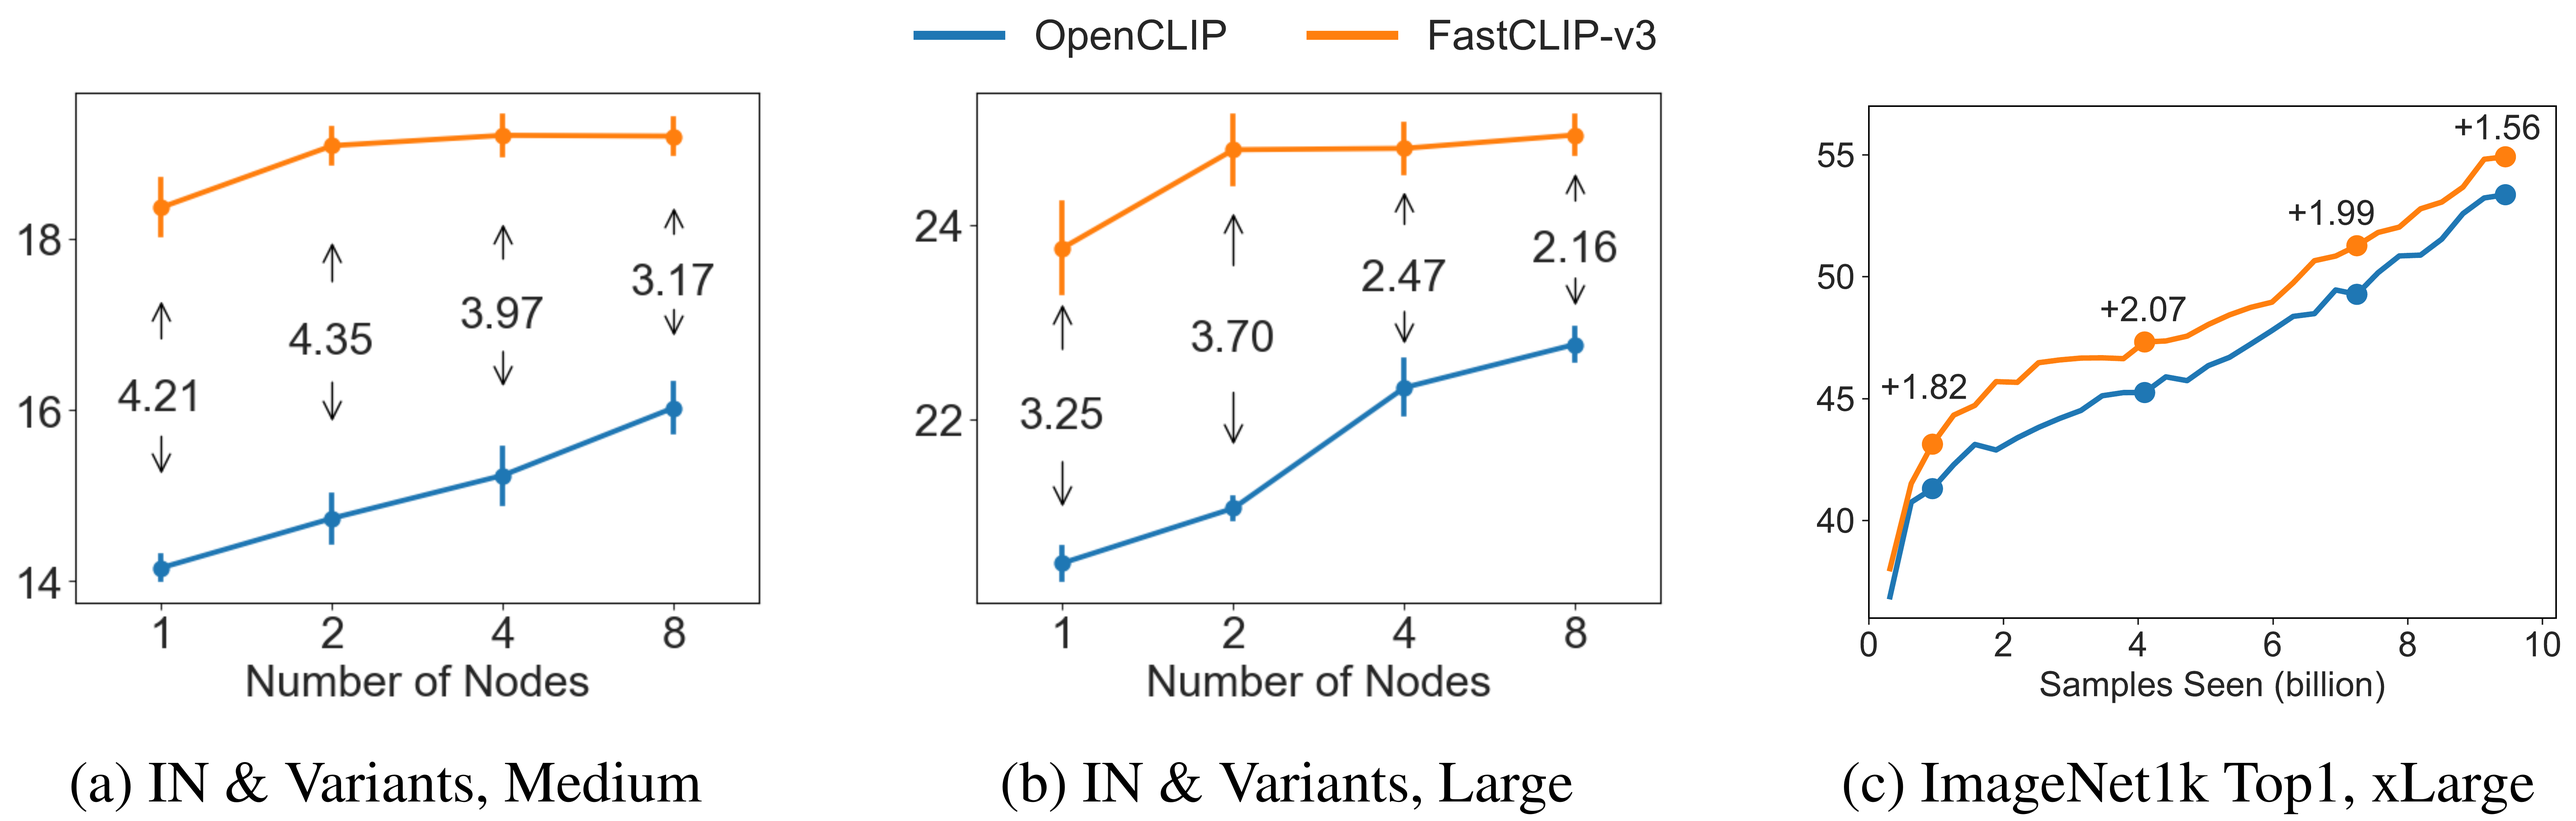
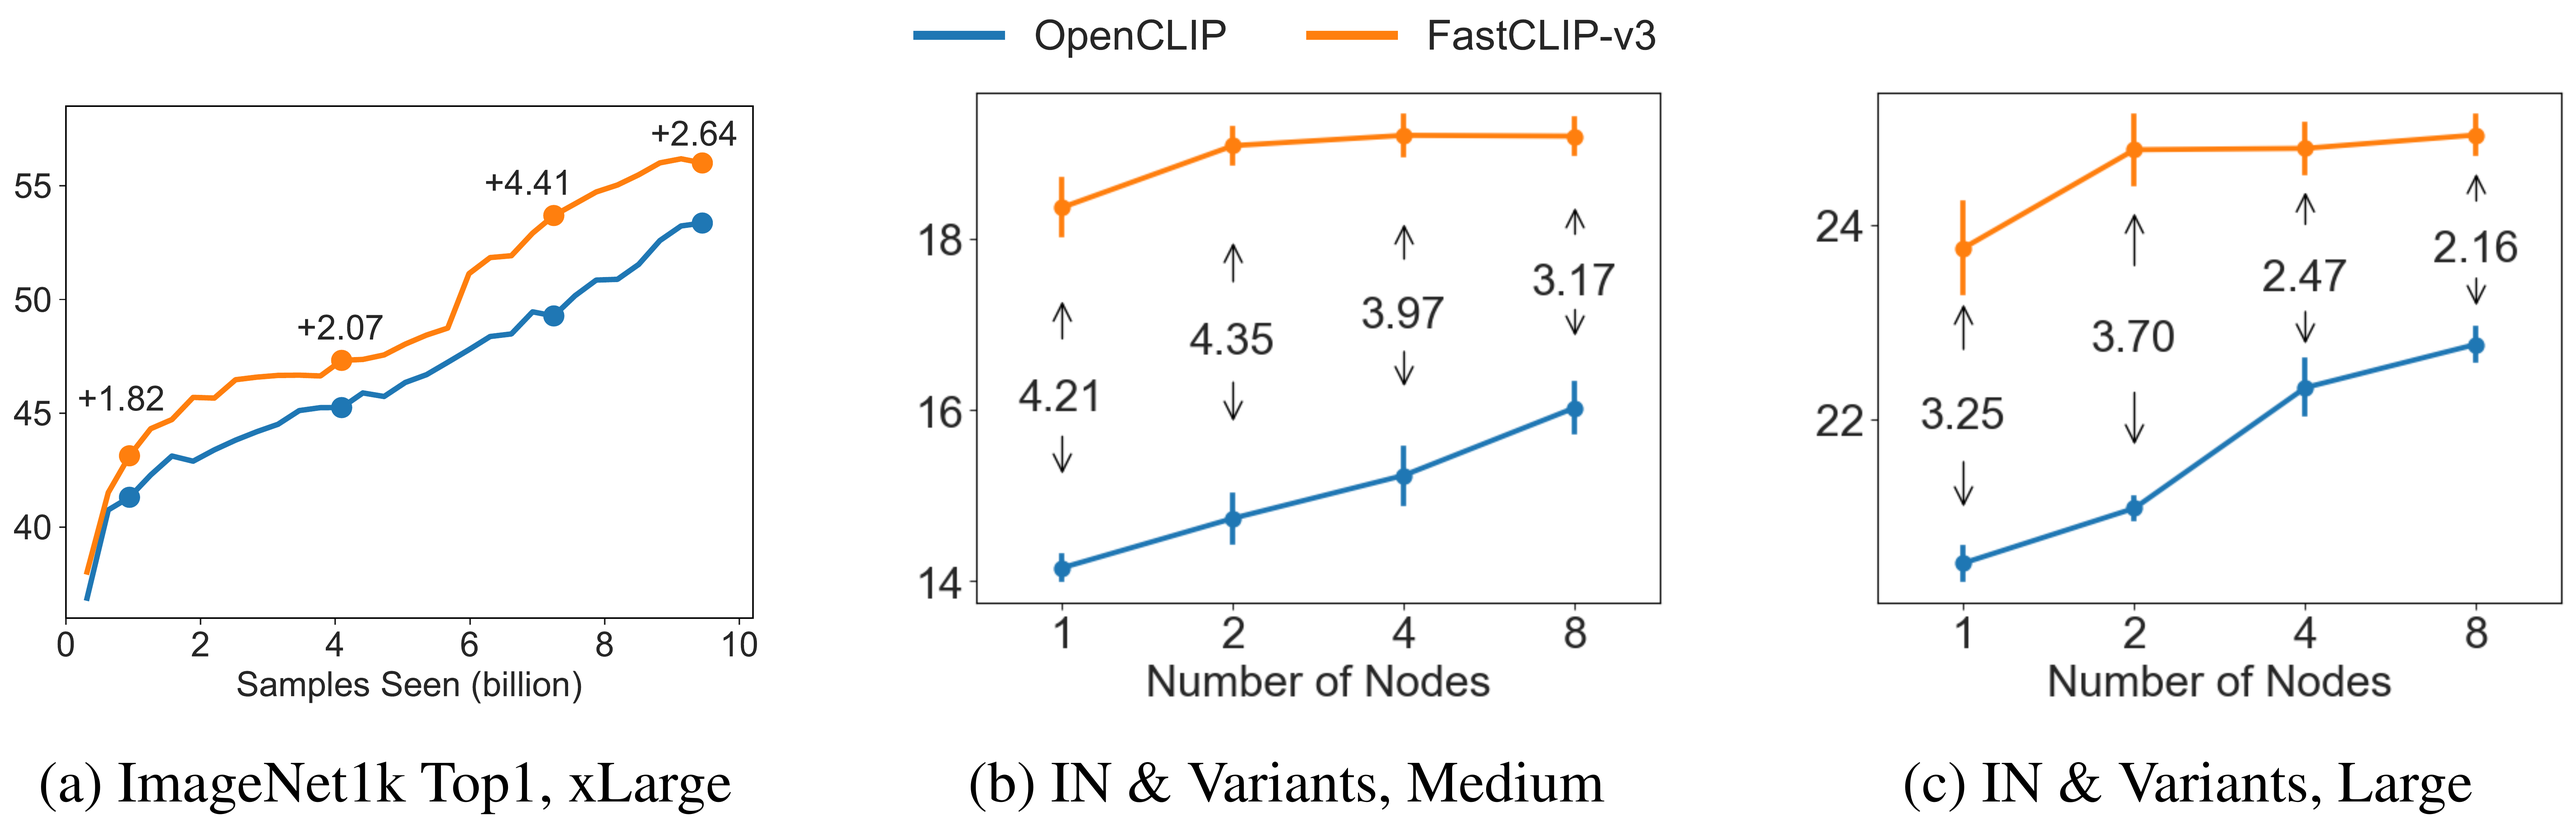
update experiment results

diff --git a/README.md b/README.md
@@ -58,17 +58,19 @@ Note that OpenCLIP [[3]](#references) uses the Mini-Batch Contrastive Loss (MBCL
 
 ### Experiment Results
 
-Next we present the results of FastCLIP vs. OpenCLIP, SogCLR and iSogCLR. For more results please refer to our paper. The following table shows the results of FastCLIP-v1 (FastCLIP-v2, resp.) vs. SogCLR (iSogCLR, resp.) in the medium-scale (**CC3M**, batch size 1024) and large-scale (**CC12M**, batch size 2048) settings.
+Next we present the results of FastCLIP vs. OpenCLIP, SogCLR and iSogCLR. For more results please refer to our paper.
 
-<p align="center"><img alt="FastCLIP v1 (FastCLIP-v2, resp.) vs. SogCLR (iSogCLR, resp.)" src="./assets/gamma_datacomp.png" width="600"/></p>
+**FastCLIP vs. OpenCLIP**: We plot the **ImageNet Top1** accuracy curve of OpenCLIP and FastCLIP-v3 in the xlarge-scale setting (**LAION400M**, batch size 5120) in subfigure (a) and the average of **ImageNet and variants** performance across different number of nodes in the medium-scale (**CC3M**, batch size 1024) and large-scale (**CC12M**, batch size 2048) settings in subfigures (b) and (c), respectively.
 
-The following figure presents the average of **ImageNet and variants** curves of OpenCLIP and FastCLIP-v3 in the medium-scale and large-scale settings.
+<p align="center"><img alt="OpenCLIP vs. FastCLIP-v3, Scaling performance" src="./assets/openclip_fastclipv3_in_variants_nodes.png" width="600"/></p>
+
+We also plot the average of **ImageNet and variants** curves of OpenCLIP and FastCLIP-v3 in the medium-scale and large-scale settings (corresponding to subfigures (b) and (c) above).
 
 <p align="center"><img alt="OpenCLIP vs. FastCLIP-v3" src="./assets/openclip_fastclipv3_in_variants_curve.png" width="600"/></p>
 
-In the following figure, (a) and (b) are the average of **ImageNet and variants** of OpenCLIP and FastCLIP-v3 across different number of nodes in the medium-scale and large-scale settings, respectively. while (c) is the **ImageNet Top1** accuracy in the xlarge-scale setting (**LAION400M**, batch size 5120).
+**FastCLIP vs. SogCLR, iSogCLR**: The following table shows the results of FastCLIP-v1 (FastCLIP-v2, resp.) vs. SogCLR (iSogCLR, resp.) in the medium-scale and large-scale settings.
 
-<p align="center"><img alt="OpenCLIP vs. FastCLIP-v3, Scaling performance" src="./assets/openclip_fastclipv3_in_variants_nodes.png" width="600"/></p>
+<p align="center"><img alt="FastCLIP v1 (FastCLIP-v2, resp.) vs. SogCLR (iSogCLR, resp.)" src="./assets/gamma_datacomp.png" width="600"/></p>
 
 The following figure shows the **training time** in the medium-scale and large-scale settings. Subfigures (a) and (b) plot the per-iteration training time. Subfigures (c) and (d) plot the communication time per iteration.
 
